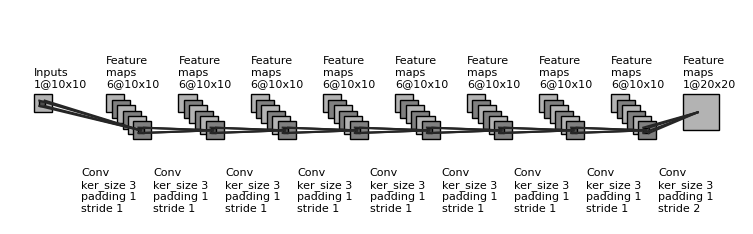
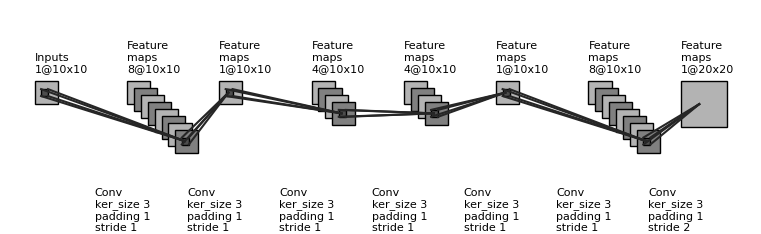
latest structure of file

diff --git a/draw_convnet.py b/draw_convnet.py
@@ -156,8 +156,8 @@ if __name__ == '__main__':
 
     ############################
     # conv layers
-    size_list = [(10, 10), (10, 10), (10, 10), (10, 10), (10, 10), (10, 10), (10, 10), (10, 10), (10, 10), (20, 20)]
-    num_list = [1, 6, 6, 6, 6, 6, 6, 6, 6, 1]
+    size_list = [(10, 10), (10, 10), (10, 10), (10, 10), (10, 10), (10, 10), (10, 10), (20, 20)]
+    num_list = [1, 8, 1, 4, 4, 1, 8, 1]
     x_diff_list = [0, layer_width, layer_width, layer_width, layer_width, layer_width, layer_width, layer_width,
                    layer_width, layer_width]
     text_list = ['Inputs'] + ['Feature\nmaps'] * (len(size_list) - 1)
@@ -183,15 +183,15 @@ if __name__ == '__main__':
 
     ############################
     # in between layers
-    start_ratio_list = [[0.4, 0.5], [0.4, 0.5], [0.4, 0.5], [0.4, 0.5], [0.4, 0.5], [0.4, 0.5], [0.4, 0.5], [0.4, 0.5],
+    start_ratio_list = [[0.4, 0.5], [0.4, 0.5], [0.4, 0.5], [0.4, 0.5], [0.4, 0.5], [0.4, 0.5],
                         [0.4, 0.5]]
-    end_ratio_list = [[0.4, 0.5], [0.4, 0.5], [0.4, 0.5], [0.4, 0.5], [0.4, 0.5], [0.4, 0.5], [0.4, 0.5], [0.4, 0.5],
+    end_ratio_list = [[0.4, 0.5], [0.4, 0.5], [0.4, 0.5], [0.4, 0.5], [0.4, 0.5], [0.4, 0.5],
                       [0.4, 0.5]]
-    patch_size_list = [(3, 3), (3, 3), (3, 3), (3, 3), (3, 3), (3, 3), (3, 3), (3, 3), (3, 3)]
+    patch_size_list = [(3, 3), (3, 3), (3, 3), (3, 3), (3, 3), (3, 3), (3, 3)]
     ind_bgn_list = range(len(patch_size_list))
-    text_list = ['Conv', 'Conv', 'Conv', 'Conv', 'Conv', 'Conv', 'Conv', 'Conv', 'Conv']
-    padding = [1, 1, 1, 1, 1, 1, 1, 1, 1]
-    stride = [1, 1, 1, 1, 1, 1, 1, 1, 2]
+    text_list = ['Conv', 'Conv', 'Conv', 'Conv', 'Conv', 'Conv', 'Conv']
+    padding = [1, 1, 1, 1, 1, 1, 1]
+    stride = [1, 1, 1, 1, 1, 1, 2]
     for ind in range(len(patch_size_list)):
         add_mapping(
             patches, colors, start_ratio_list[ind], end_ratio_list[ind],
